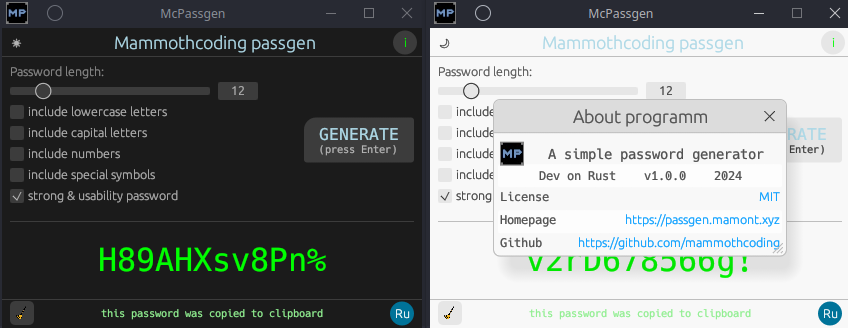
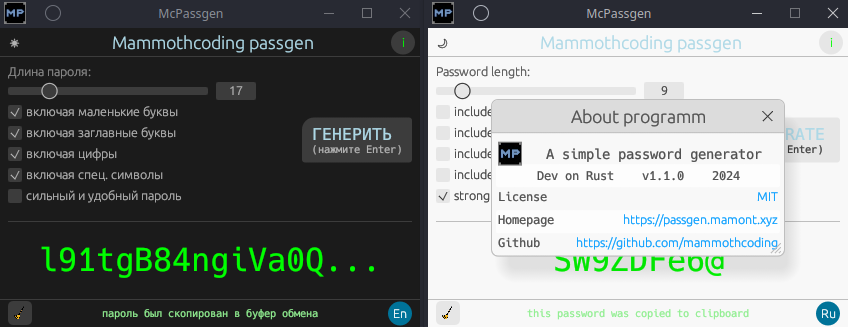
many addings to 1.1.0

diff --git a/src/gen_engine.rs b/src/gen_engine.rs
@@ -1,6 +1,9 @@
 pub mod gen_engine {
     use crate::generator::generator::Generator;
     use rand::Rng;
+    use rand_hc::Hc128Rng;
+    use rand_isaac::Isaac64Rng;
+    use rand_seeder::rand_core::SeedableRng;
 
     const LETTERS_CHARSET: &[u8] = b"abcdefghijklmnopqrstuvwxyz";
     const U_LETTERS_CHARSET: &[u8] = b"ABCDEFGHIJKLMNOPQRSTUVWXYZ";
@@ -13,7 +16,8 @@ pub mod gen_engine {
 
     impl Generator {
         pub fn generate_pass(&mut self) -> String {
-            let mut rng = rand::thread_rng();
+            let mut isaac_seeder = Isaac64Rng::from_entropy();
+            let mut rng = Hc128Rng::from_rng(&mut isaac_seeder).unwrap();
             let mut pass_assembly: Vec<&[u8]> = Vec::new();
 
             if self.convenience_criterion

diff --git a/src/main.rs b/src/main.rs
@@ -23,6 +23,7 @@ fn main() -> eframe::Result<()> {
             .with_inner_size([420.0, 300.0])
             //.with_min_inner_size([420.0, 300.0])
             //.with_max_inner_size([200.0, 200.0])
+            .with_maximize_button(false)
             .with_resizable(false)
             .with_transparent(true)
             .with_icon(gen_icon_from_png_pixels_data(24, ICO_PNG_PXL_DATA)), //for X11 and mac, not for wayland programmatically way

diff --git a/README.md b/README.md
@@ -6,14 +6,16 @@
 [![Build Status](https://github.com/mammothcoding/passgen-desktop/actions/workflows/rust.yml/badge.svg?event=push)](https://github.com/mammothcoding/passgen-desktop/actions/workflows/rust.yml)
 [![made-with-rust](https://img.shields.io/badge/Made%20with-Rust-1f425f.svg)](https://www.rust-lang.org/)
 
-# passgen-desktop
-Cross-platform password generator with GUI bulded using egui library.
+# 🔏 Passgen-desktop
+Cross-platform gui-tool (emilk/egui) for generating cryptographically secure passwords/tokens and other sets and sequences.
+
+[CSPRNGs](https://rust-random.github.io/book/guide-rngs.html#cryptographically-secure-pseudo-random-number-generators-csprngs) Isaac64Rng and Hc128Rng are used.
 
 ![alt text](./App_screen.png "passgen-console-linuxwin")
 
 
 
-[Releases/Downloads](https://github.com/mammothcoding/passgen-desktop/releases/)
+[Releases/Builded packages](https://github.com/mammothcoding/passgen-desktop/releases/)
 
 ### License
 
